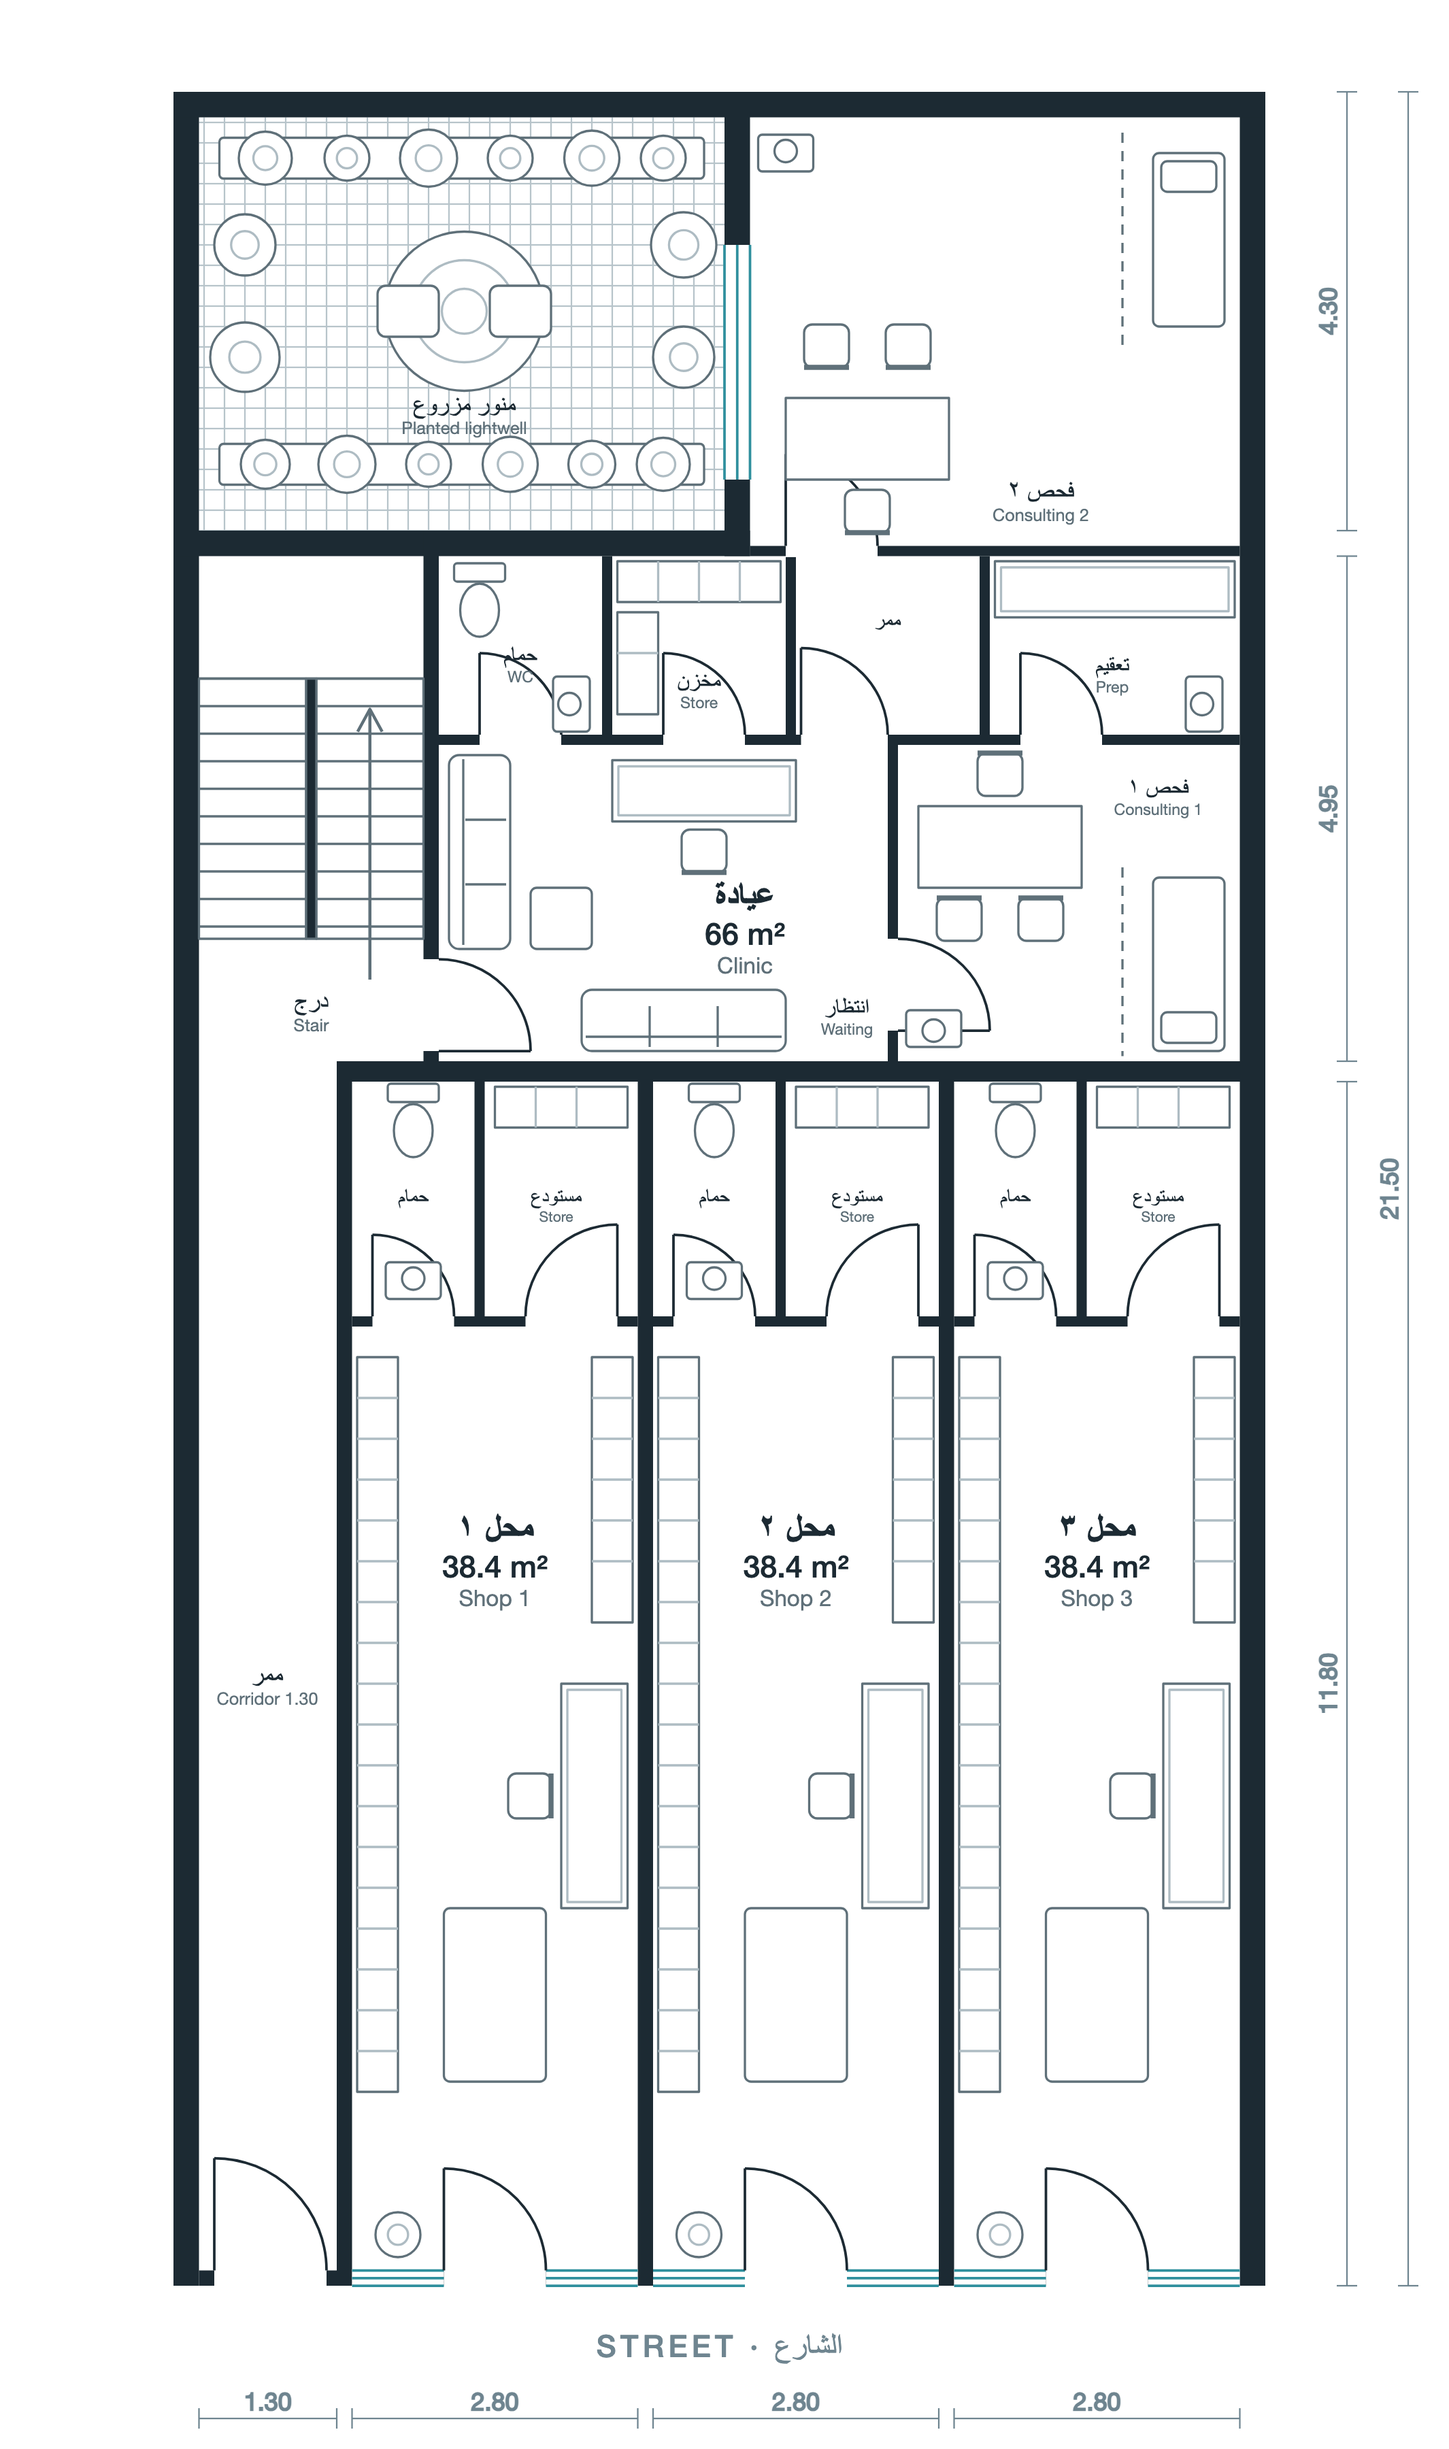
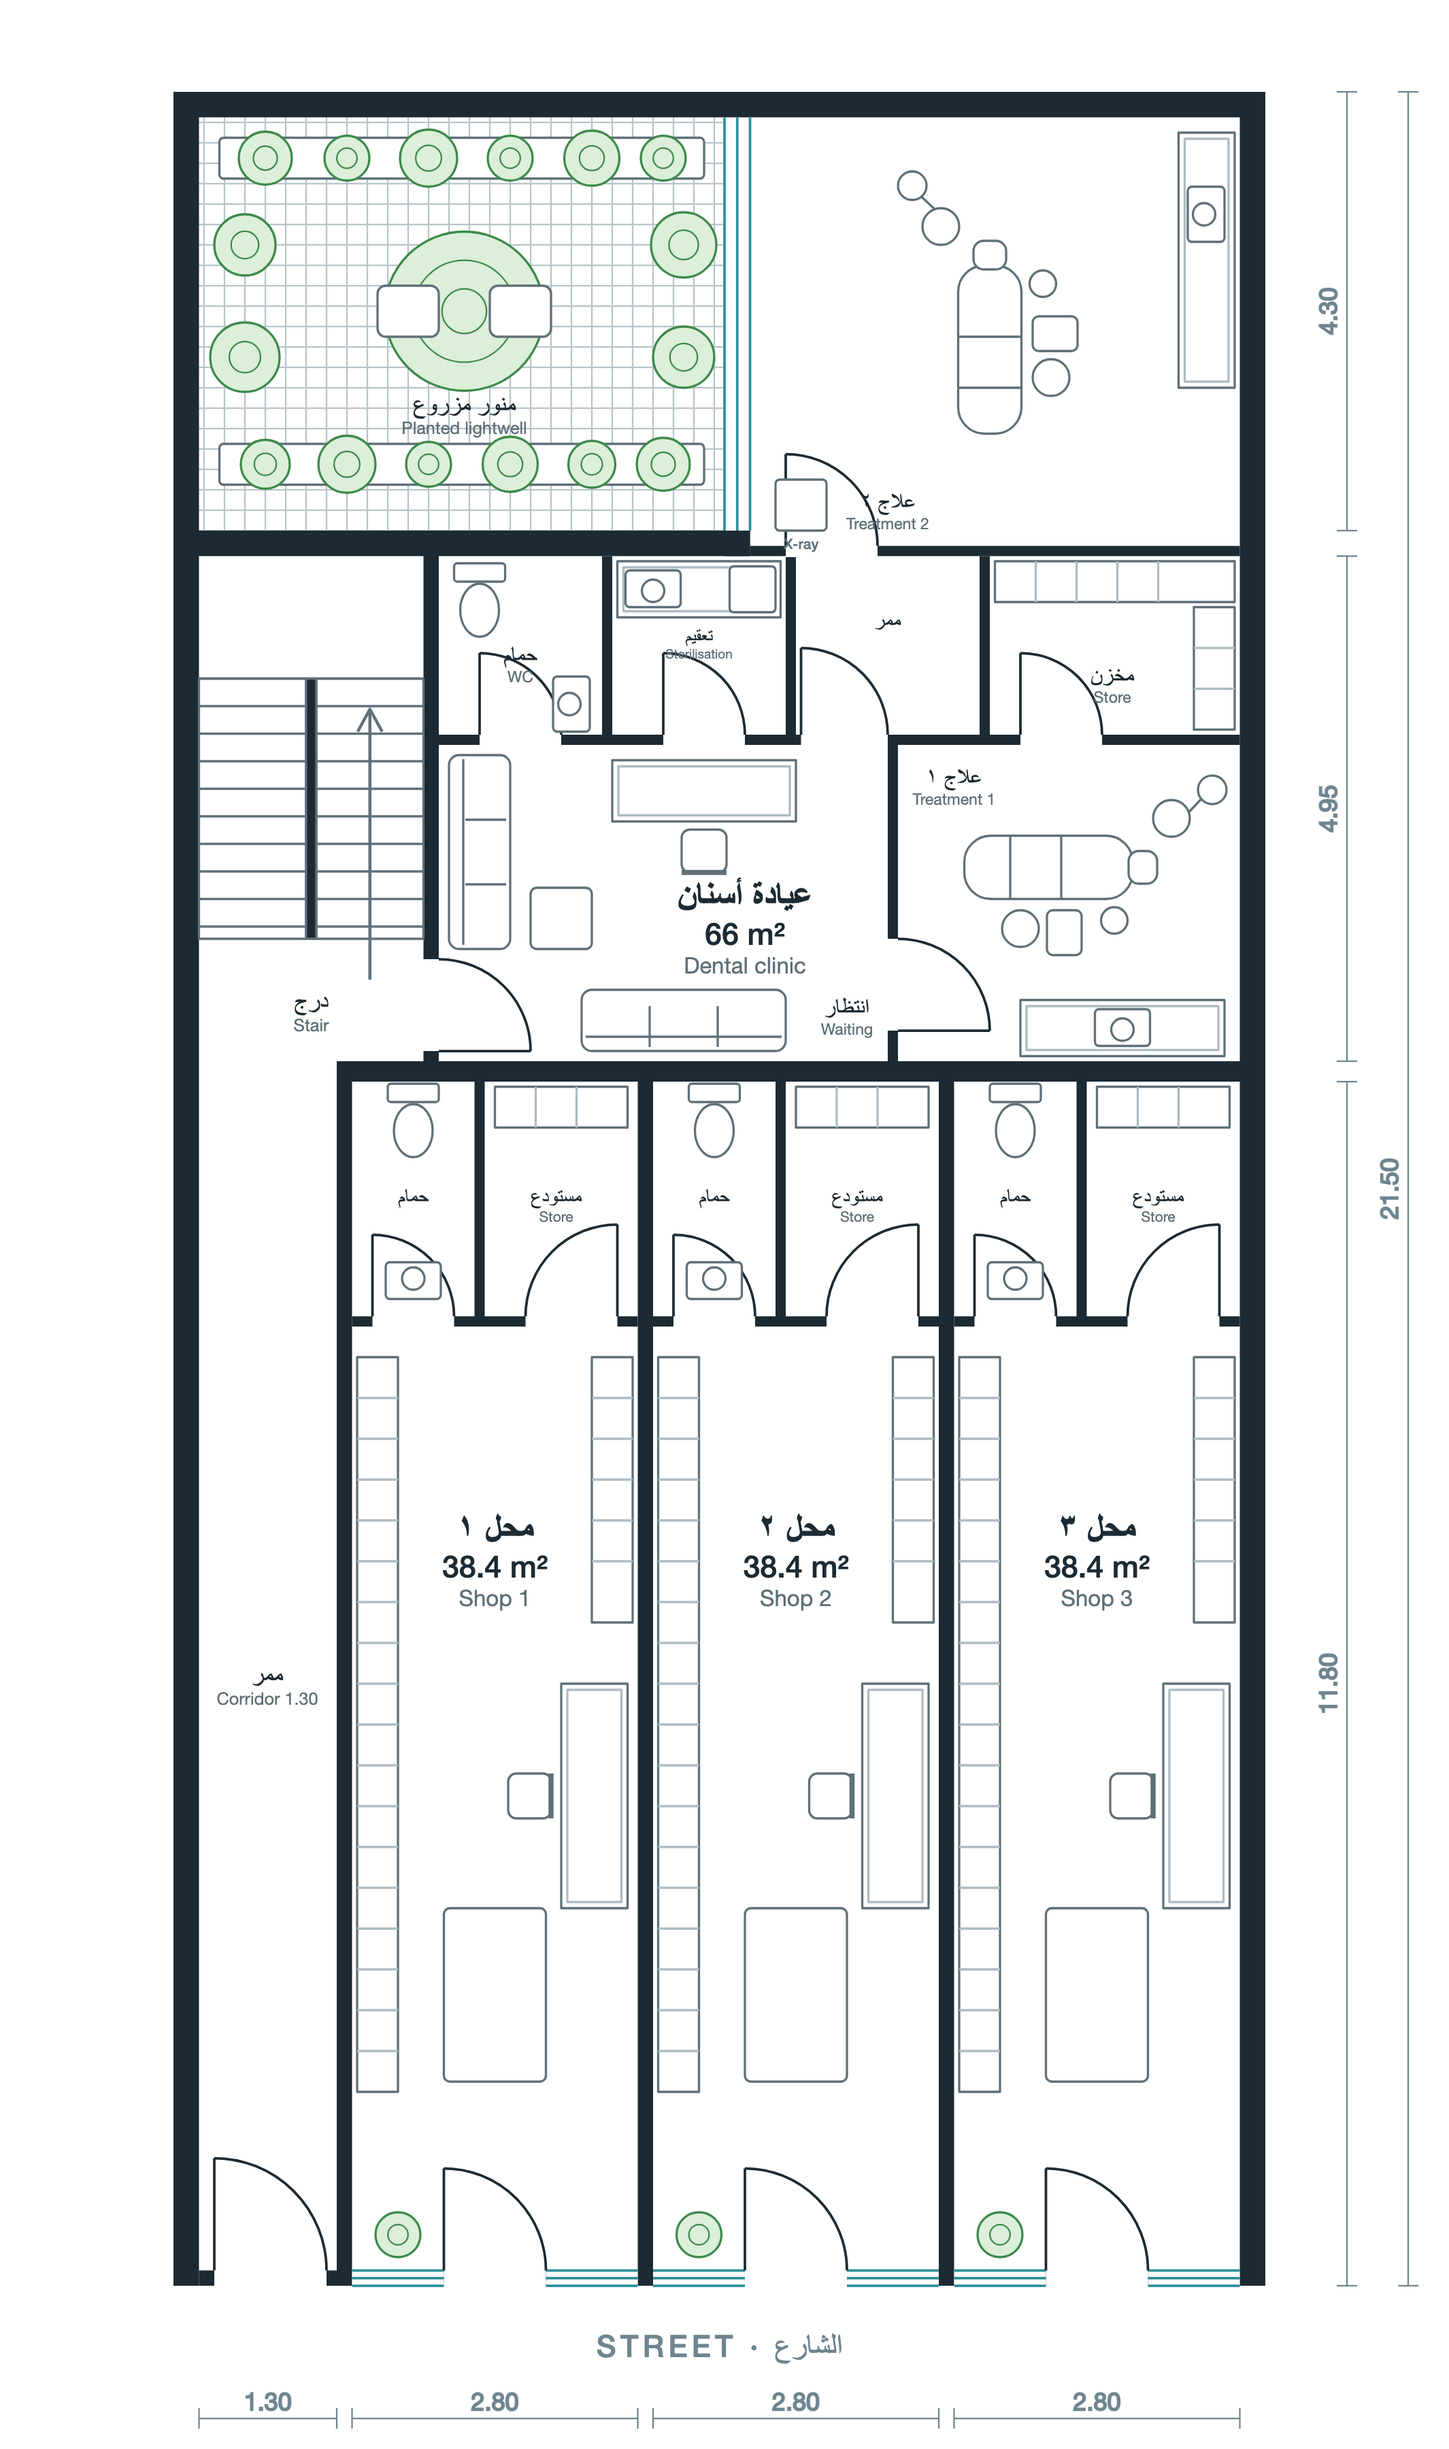
Make the ground clinic a dental clinic and deploy the rules
The ground floor clinic is a dental practice: the two consulting rooms are
now treatment rooms with dental chairs, delivery units, lights and stools;
the dead corner by the WC becomes the sterilisation room with counter,
basin and autoclave, and the store goes back to the right-hand side of the
building. The rear treatment room is glazed full height onto the lightwell,
and the planting is drawn green. An X-ray unit sits by the wing door.

firestore.rules was deployed to latakia-feasibility this evening: the live
rules had admitted only sheets/latakia, which is why Save on the Option 2
page kept failing. Both sheets now load and save.

Claude-Session: https://claude.ai/code/session_01LqRNDqLmS9HuGRKSh3RGhW

diff --git a/option-2.html b/option-2.html
@@ -527,8 +527,8 @@
 
     <div class="row" data-kind="rev">
       <div class="row-name">
-        <span class="n">Rear clinic (66 m²)</span>
-        <span class="n-ar ar">العيادة الخلفية (٦٦ م²)</span>
+        <span class="n">Rear dental clinic (66 m²)</span>
+        <span class="n-ar ar">عيادة الأسنان الخلفية (٦٦ م²)</span>
         <span class="tag" data-load></span>
       </div>
       <div class="field">
@@ -1081,11 +1081,11 @@
     <div class="plan-grid">
       <figure>
         <img src="option-2/plan-ground.svg" width="1420" height="2400"
-             alt="Option 2 ground floor plan: three shops of 2.80 by 11.80 metres facing the street, a 1.30 metre side corridor to the stair at the back, and an L-shaped clinic of 66 square metres around a planted rear lightwell">
+             alt="Option 2 ground floor plan: three shops of 2.80 by 11.80 metres facing the street, a 1.30 metre side corridor to the stair at the back, and an L-shaped dental clinic of 66 square metres glazed onto a planted rear lightwell">
         <figcaption>
           <strong>Ground floor.</strong> Three shops of 2.80 × 11.80 m face the street, each with a WC and store at the back.
-          A 1.30 m corridor on the left leads to the stair and to a 66 m² clinic: waiting and reception, two consulting rooms, WC, a store in the dead corner and a prep room, lit from a planted 5.40 × 4.30 m lightwell.
-          <span class="ar">الطابق الأرضي: ثلاثة محلات بمقاس ٢٫٨٠ × ١١٫٨٠ م على الشارع، لكل منها حمام ومستودع في الخلف. ممر جانبي بعرض ١٫٣٠ م يقود إلى الدرج وإلى عيادة بمساحة ٦٦ م²: انتظار واستقبال وغرفتا فحص وحمام ومخزن في الزاوية الميتة وغرفة تعقيم، مضاءة من منور مزروع ٥٫٤٠ × ٤٫٣٠ م</span>
+          A 1.30 m corridor on the left leads to the stair and to a 66 m² dental clinic: waiting and reception, two treatment rooms with dental chairs, a sterilisation room in the dead corner, WC, and the store on the right. The rear treatment room is glazed full height onto the planted 5.40 × 4.30 m lightwell.
+          <span class="ar">الطابق الأرضي: ثلاثة محلات بمقاس ٢٫٨٠ × ١١٫٨٠ م على الشارع، لكل منها حمام ومستودع في الخلف. ممر جانبي بعرض ١٫٣٠ م يقود إلى الدرج وإلى عيادة أسنان بمساحة ٦٦ م²: انتظار واستقبال وغرفتا علاج بكرسيي أسنان وغرفة تعقيم في الزاوية الميتة وحمام ومخزن على الجهة اليمنى. غرفة العلاج الخلفية مزجّجة بكامل ارتفاعها على المنور المزروع ٥٫٤٠ × ٤٫٣٠ م</span>
         </figcaption>
       </figure>
       <figure>
@@ -1176,7 +1176,7 @@
     {src:0, w:1, en:"Shop 1 (38.4 m²)", ar:"محل ١", def:"dev"},
     {src:0, w:1, en:"Shop 2 (38.4 m²)", ar:"محل ٢", def:"dev"},
     {src:0, w:1, en:"Shop 3 (38.4 m²)", ar:"محل ٣", def:"dev"},
-    {src:1, w:1, en:"Clinic (66 m²)", ar:"العيادة", def:"dev"},
+    {src:1, w:1, en:"Dental clinic (66 m²)", ar:"عيادة الأسنان", def:"dev"},
     {src:2, w:1, en:"Floor 1 — clinic A (48 m²)", ar:"الطابق الأول — عيادة أ", def:"land"},
     {src:3, w:1, en:"Floor 1 — clinic B (34 m²)", ar:"الطابق الأول — عيادة ب", def:"land"},
     {src:4, w:1, en:"Floor 1 — clinic C (38 m²)", ar:"الطابق الأول — عيادة ج", def:"land"},

diff --git a/option-2/plans.py b/option-2/plans.py
@@ -26,6 +26,8 @@ SOFT  = "#aebcc3"
 GLASS = "#2f8f9d"
 HATCH = "#b7c4ca"
 DIM   = "#6f8590"
+LEAF  = "#3e8a4a"
+LEAF2 = "#dcefd9"
 FONT  = "'IBM Plex Sans','IBM Plex Sans Arabic',-apple-system,'Helvetica Neue',Arial,sans-serif"
 
 LAYERS = ("fill", "wall", "open", "glass", "door", "furn", "text", "dim")
@@ -197,7 +199,27 @@ class Plan:
         self.rect(x + 6, y + 6, w - 12, h - 12, extra=f'stroke="{SOFT}"')
 
     def plant(self, cx, cy, r=22):
-        self.f(f'<circle cx="{cx}" cy="{cy}" r="{r}"/><circle cx="{cx}" cy="{cy}" r="{r*0.45}" stroke="{SOFT}"/>')
+        self.f(f'<g stroke="{LEAF}" fill="{LEAF2}"><circle cx="{cx}" cy="{cy}" r="{r}"/>'
+               f'<circle cx="{cx}" cy="{cy}" r="{r*0.45}" fill="none" stroke-width="1.5"/></g>')
+
+    def tree(self, cx, cy, r=78):
+        self.f(f'<g stroke="{LEAF}" fill="{LEAF2}"><circle cx="{cx}" cy="{cy}" r="{r}"/>'
+               f'<circle cx="{cx}" cy="{cy}" r="{r*0.64}" fill="none" stroke-width="1.5"/>'
+               f'<circle cx="{cx}" cy="{cy}" r="{r*0.28}" fill="none" stroke-width="1.5"/></g>')
+
+    def dental_chair(self, cx, cy, rot=0):
+        """Dental treatment chair, head towards -y, with delivery unit, light and stools."""
+        self.f(f'<g transform="translate({cx} {cy}) rotate({rot})">'
+               f'<rect x="-31" y="-80" width="62" height="165" rx="26"/>'          # chair
+               f'<rect x="-16" y="-104" width="32" height="28" rx="10"/>'          # headrest
+               f'<line x1="-31" y1="-10" x2="31" y2="-10"/>'                        # backrest hinge
+               f'<line x1="-31" y1="40" x2="31" y2="40"/>'                          # knee break
+               f'<rect x="42" y="-30" width="44" height="34" rx="6"/>'              # delivery unit
+               f'<circle cx="52" cy="-62" r="13"/>'                                 # spittoon
+               f'<line x1="-38" y1="-120" x2="-70" y2="-150"/><circle cx="-76" cy="-158" r="14"/>'  # light
+               f'<circle cx="-48" cy="-118" r="18"/>'                               # operator stool
+               f'<circle cx="60" cy="30" r="18"/>'                                  # assistant stool
+               f'</g>')
 
     def stair(self, x, y, w, h, land=120, hall=120, tread=27):
         """Dog-leg stair in a well x..x+w, y..y+h: landing at the top (rear),
@@ -307,8 +329,7 @@ def ground():
                       (90, 365, 24), (170, 365, 28), (250, 365, 22), (330, 365, 27), (410, 365, 23), (480, 365, 26),
                       (70, 150, 30), (70, 260, 34), (500, 150, 32), (500, 260, 30)):
         p.plant(cx, cy, r)
-    p.f('<circle cx="285" cy="215" r="78"/><circle cx="285" cy="215" r="50" stroke="#aebcc3"/>'
-        '<circle cx="285" cy="215" r="22" stroke="#aebcc3"/>')                # tree
+    p.tree(285, 215)
     p.rect(200, 190, 60, 50, rx=8); p.rect(310, 190, 60, 50, rx=8)            # benches
 
     # stair / clinic wall, shops' back wall
@@ -351,32 +372,31 @@ def ground():
     # wing: second consulting room, lit from the lightwell
     p.hwall(565, 1045, 445, IW)
     p.door_h(600, 445, 455, 90, "l", "u")
-    p.glass_v(540, 565, 150, 380)
+    p.glass_v(540, 565, 25, 430)                              # full-height glazing to the lightwell
 
     # furniture
     p.counter(430, 655, 180, 60);      p.chair(520, 745, 180)
     p.sofa(270, 650, 60, 190, "l")
     p.sofa(400, 880, 200, 60, "b")
     p.rect(350, 780, 60, 60, rx=6)                             # coffee table
-    p.desk(730, 700, 160, 80, "t");   p.chair(770, 810, 0);  p.chair(850, 810, 0)
-    p.bed(960, 770, 70, 170, "b")
-    p.basin(745, 918, 0)
-    p.f(f'<line x1="930" y1="760" x2="930" y2="945" stroke-dasharray="10 8"/>')   # curtain
+    p.counter(830, 890, 200, 55); p.basin(930, 917, 0)         # treatment 1: cabinet, basin, dental chair
+    p.dental_chair(860, 760, 90)
     p.toilet(300, 500, 0);  p.basin(390, 600, 90)
-    p.shelf(435, 460, 160, 40); p.shelf(435, 510, 40, 100)     # store
-    p.counter(805, 460, 235, 55); p.basin(1010, 600, 90)       # prep room
-    p.desk(600, 300, 160, 80, "b");   p.chair(640, 250, 180); p.chair(720, 250, 180)
-    p.bed(960, 60, 70, 170, "t")
-    p.basin(600, 60, 180)
-    p.f(f'<line x1="930" y1="40" x2="930" y2="250" stroke-dasharray="10 8"/>')
+    p.counter(435, 460, 160, 55); p.basin(470, 487, 0)          # sterilisation: counter, basin, autoclave
+    p.rect(545, 465, 45, 45, rx=4)
+    p.shelf(805, 460, 235, 40); p.shelf(1000, 505, 40, 120)    # store, on the right
+    p.counter(985, 40, 55, 250); p.basin(1012, 120, 90)        # treatment 2: cabinet, basin, dental chair
+    p.dental_chair(800, 250)
+    p.rect(590, 380, 50, 50, rx=4)                              # x-ray unit
 
-    p.unit(560, 800, "عيادة", "66 m²", "Clinic")
+    p.unit(560, 800, "عيادة أسنان", "66 m²", "Dental clinic")
     p.room(660, 905, "انتظار", "Waiting", 22)
-    p.room(965, 690, "فحص ١", "Consulting 1", 22)
-    p.room(850, 400, "فحص ٢", "Consulting 2", 24)
+    p.room(765, 680, "علاج ١", "Treatment 1", 22)
+    p.room(700, 410, "علاج ٢", "Treatment 2", 22)
+    p.label(615, 448, "X-ray", size=14, color=FURN)
     p.room(340, 560, "حمام", "WC", 22)
-    p.room(515, 585, "مخزن", "Store", 22)
-    p.room(920, 570, "تعقيم", "Prep", 22)
+    p.room(515, 540, "تعقيم", "Sterilisation", 18)
+    p.room(920, 580, "مخزن", "Store", 22)
     p.room(700, 525, "ممر", None, 20)
     p.room(285, 315, "منور مزروع", "Planted lightwell", 24)
 

diff --git a/README.md b/README.md
@@ -34,8 +34,8 @@ Current shape of the sheet (September 2026):
 
 `option-2.html` is the same sheet for the architect's second layout (the
 "OPTION 2" sheet of 6 September): three 2.80 m shops facing the street on a
-1.30 m side corridor, the stair at the back and an L-shaped 66 m² clinic around
-a planted rear lightwell; above, clinic suites of 48, 34 and 38 m² to the street
+1.30 m side corridor, the stair at the back and an L-shaped 66 m² dental clinic glazed
+onto a planted rear lightwell; above, clinic suites of 48, 34 and 38 m² to the street
 and a 45 m² suite at the rear with a terrace, the lightwell kept open through
 every floor. Twelve units in allocation. It saves to its
 own document (`sheets/latakia-option-2`) so the two options never overwrite
@@ -48,9 +48,10 @@ beside them) are drawn by `option-2/plans.py` — shell and unit areas from the
 architect's sheet, internal walls and furniture as a proposal. Edit the script
 and re-run it (`--png` also re-renders the PNGs through headless Chrome).
 
-`firestore.rules` holds the security rules both sheets need (Save on the
-Option 2 page works, so the live rules already admit its document; the file
-is the reference copy).
+`firestore.rules` holds the security rules both sheets need. It was deployed
+on 6 September (`firebase deploy --only firestore:rules --project
+latakia-feasibility`); before that the live rules admitted only the Option 1
+document and Save on Option 2 failed.
 
 ## The project site
 

diff --git a/CLAUDE.md b/CLAUDE.md
@@ -94,7 +94,7 @@ backdrop shows at the edges.
 
 Both pieces are live. On 6 September a second calculator for the architect's
 Option 2 was added (`option-2.html` + `option-2/`), live and saving to its own
-document (`firestore.rules` is the reference copy of the policy). Recent work
+document since `firestore.rules` was deployed that evening. Recent work
 on the site: new render with the shops, a
 fifth detail tile, widened hero images, left neighbour cut to the shop line.
 Nothing is half-finished. Known limitation: the render is low resolution;
